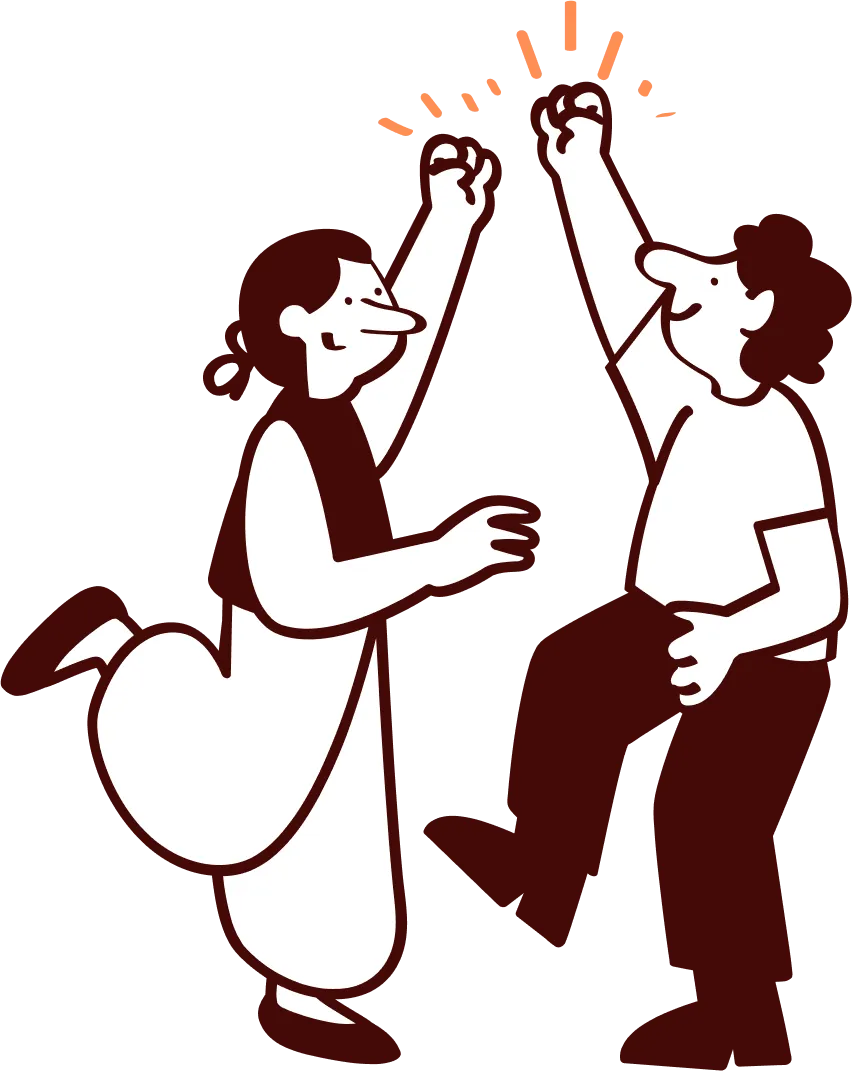
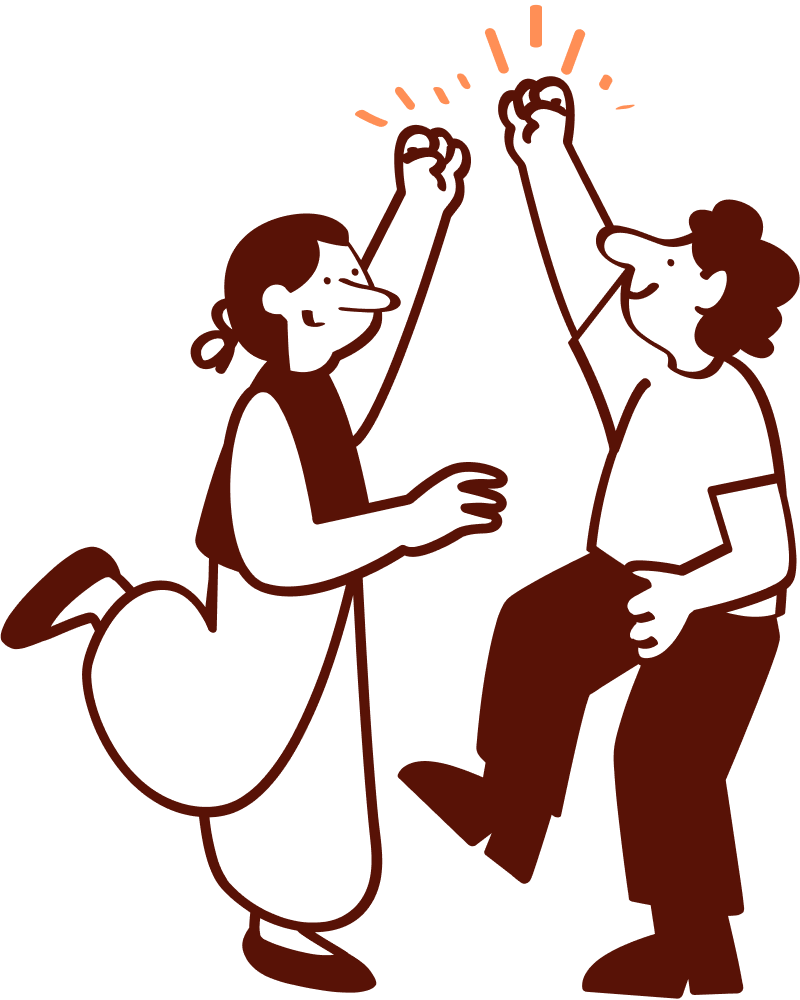
refactor: 画像差し替え

diff --git a/frontend/src/app/page.tsx b/frontend/src/app/page.tsx
@@ -29,8 +29,8 @@ export default function Home() {
             <Image
               alt=""
               src="/mv_pc.webp"
-              width={424}
-              height={533}
+              width={420}
+              height={525}
               priority
               fetchPriority="high"
               className="hidden md:block"
